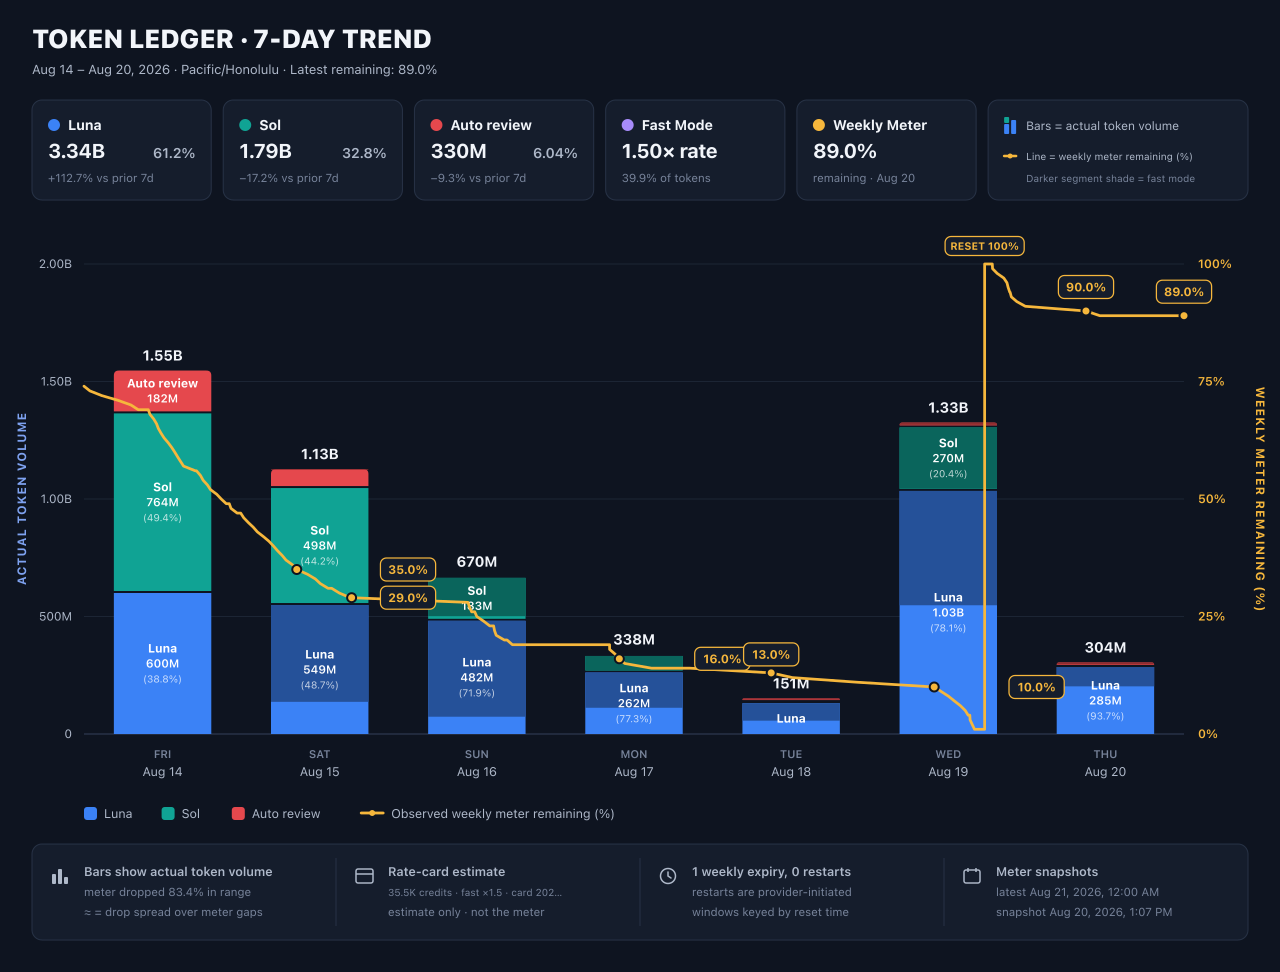
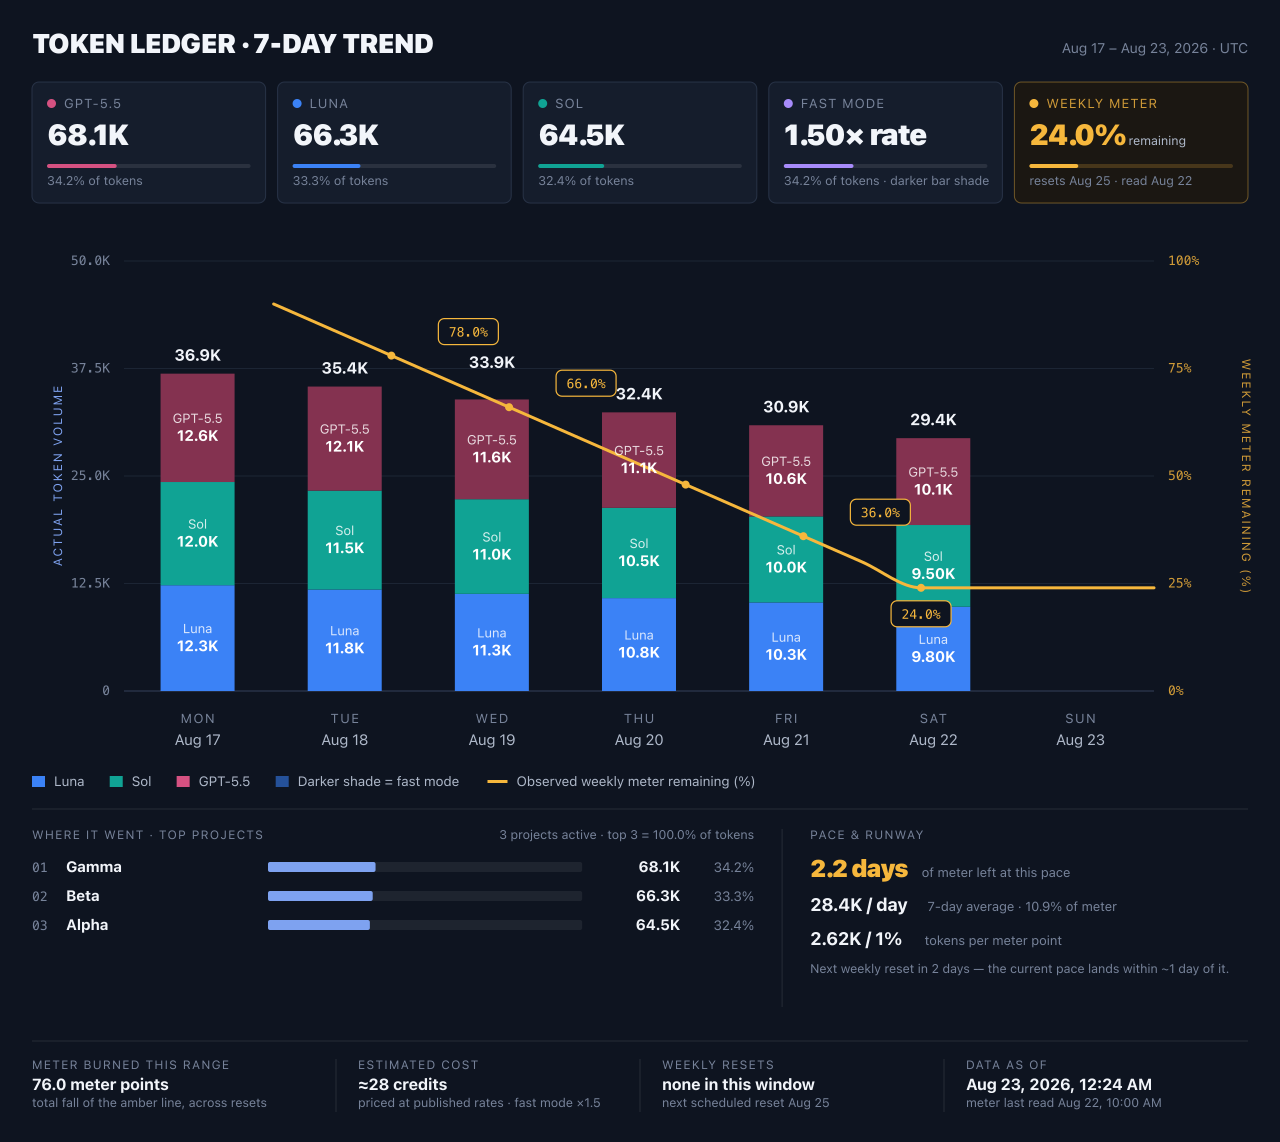
Refresh README setup and report example

diff --git a/README.md b/README.md
@@ -15,14 +15,12 @@ Requires Node.js 22.13 or newer. From this checkout:
 
 ```bash
 npm install
-```
-
-The same local install provides both outputs. To install the `tledger` bin
-locally on your PATH instead:
-
-```bash
 npm install -g .
 ```
+
+The second command links the `tledger` executable on your PATH. Without a
+global link, run the examples below as `npx tledger ...` or
+`node bin/token-ledger.mjs ...` from this checkout.
 
 Generate the report as a PNG. `report` is the image form of the trend view;
 the default file is `token-ledger-report-7d.png` in the current directory.
@@ -124,9 +122,11 @@ thread metadata, then normalized for display.
 
 The weekly meter uses local rate-limit observations for the account-wide
 weekly window. Reset timestamps identify windows; stale readings and separate
-named pools are not stitched into that meter. Reset type, remaining
-percentage, observation time, and the selected window are local observations,
-not an official account-wide quota or billing record.
+named pools are not stitched into that meter. Remaining percentage,
+observation time, and the selected window are local observations; the reset
+type (weekly expiry versus restart) is derived by comparing the prior window's
+reset timestamp with the first reading of the new window. None of this is an
+official account-wide quota or billing record.
 
 The exported snapshot contains token metadata, model/use-type labels, project
 labels, and display titles. It omits message bodies, reasoning text, tool
@@ -147,8 +147,8 @@ When meter observations are available, report bars in `--drain` mode represent
 observed meter drops; model attribution within a drop uses rate-card weights
 when possible and token weights as a fallback. Long observation gaps are
 spread across local calendar days as estimates. Tokens-per-meter-point,
-model-split burn, runway, credit-per-percent, and CLI `View burn` are derived
-estimates. None is official billing, quota, or account-completeness truth.
+model-split burn, runway, and CLI `View burn` are derived estimates. None is
+official billing, quota, or account-completeness truth.
 
 ## Verify
 
